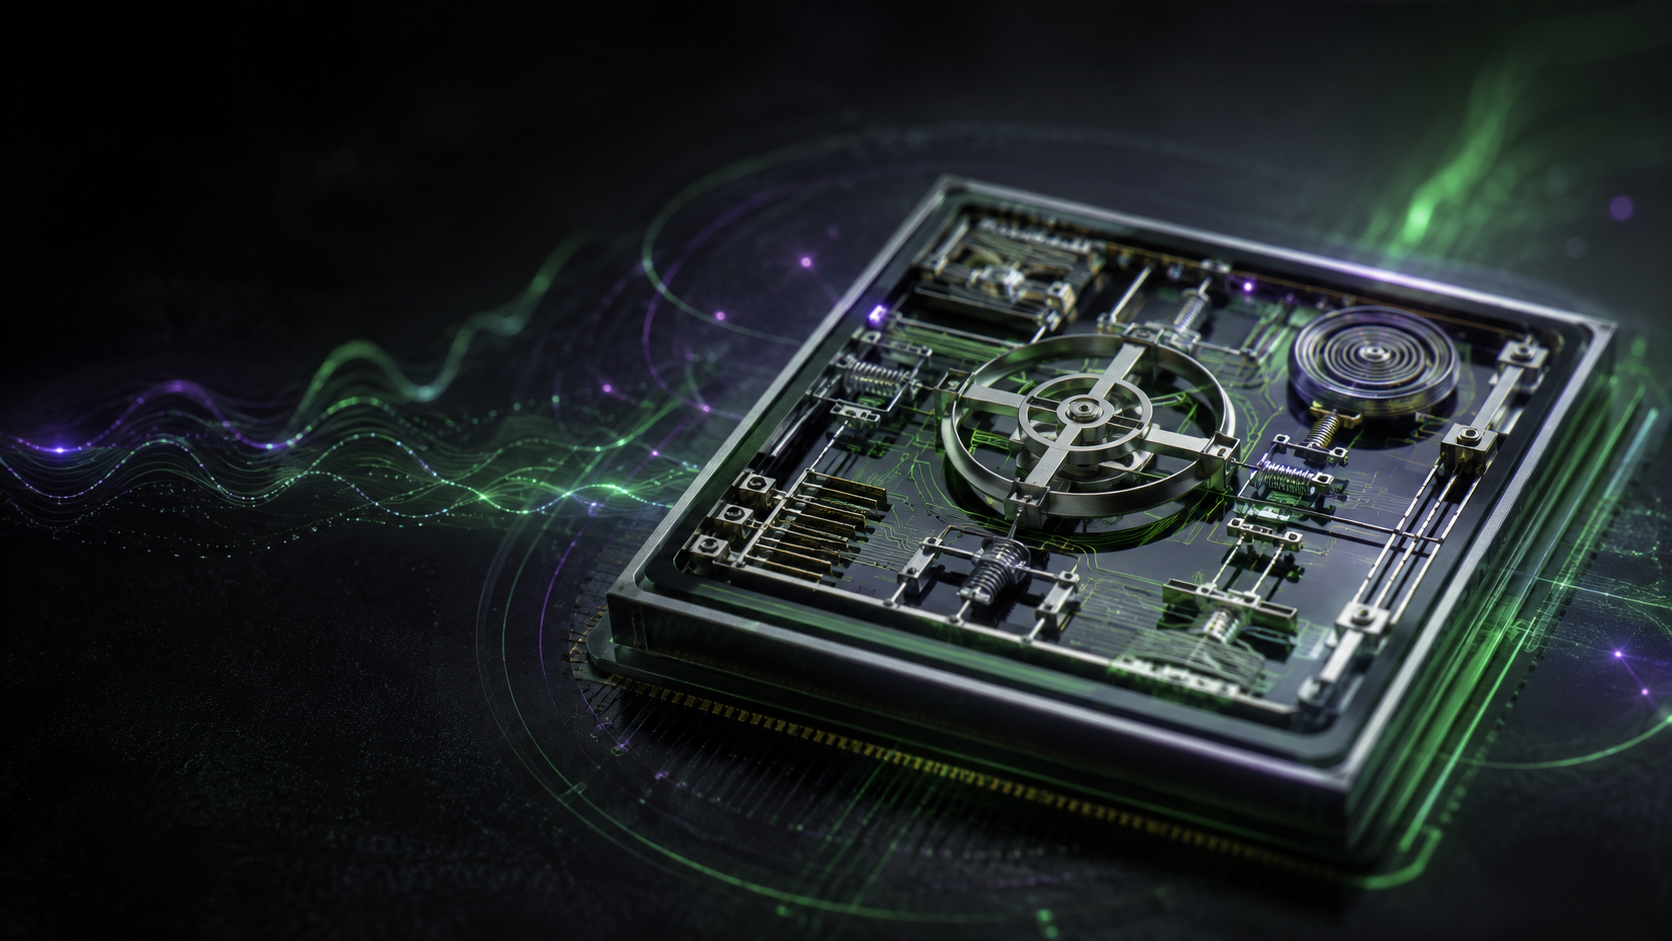
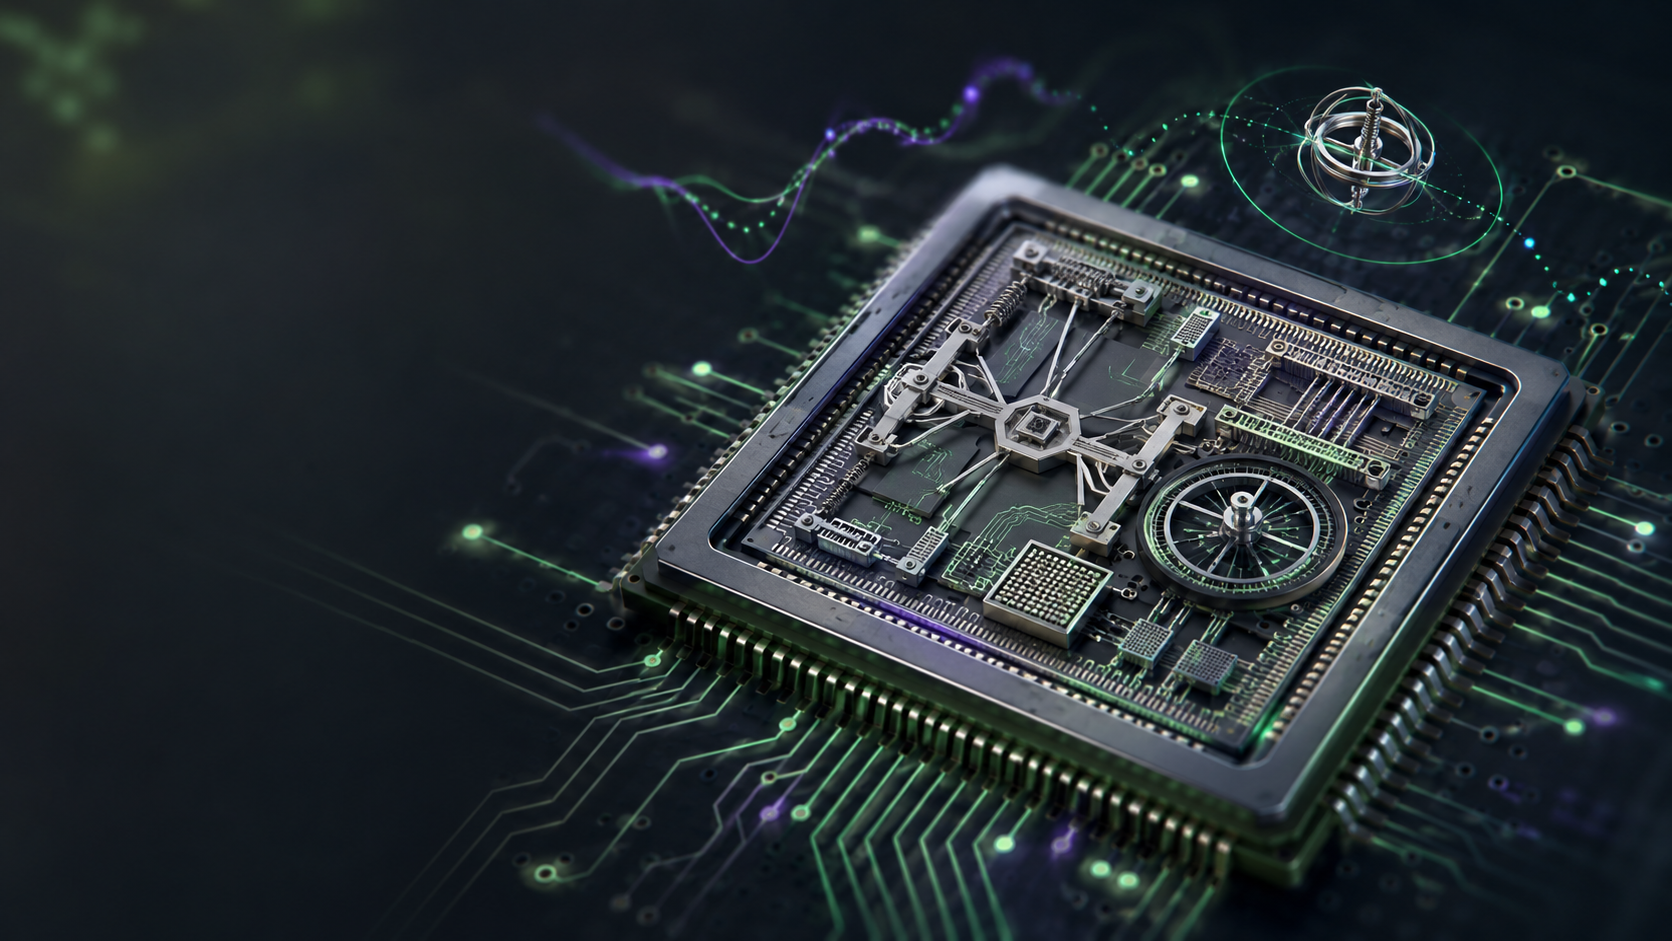
modified:   slides/mems.png modified:   slides/prompt.md

diff --git a/slides/prompt.md b/slides/prompt.md
@@ -12,14 +12,14 @@ Any text, typography, letters, numbers, labels, captions, slogans, logos, icons,
 
 ### MEMS Image Prompt
 
-Create a premium full-bleed 16:9 hero image for a professional semiconductor design company. Show a realistic MEMS sensing and control system as the visual subject: a detailed microelectromechanical silicon chip in a three-quarter macro perspective, with miniature suspended structures, precision springs, cantilevers, resonators, sensor elements, and fine semiconductor traces visible on the die.
+Create a premium full-bleed 16:9 hero image for a professional semiconductor design company. Show a realistic MEMS sensing and control system as the visual subject: a detailed microelectromechanical silicon chip in a three-quarter macro perspective, with miniature suspended structures, precision springs, cantilevers, resonators, sensor elements, and fine semiconductor traces clearly visible on and around the die. Keep the main chip face and surrounding circuit paths unobstructed, sharply focused, and easy to read at a glance.
 
 Surround the chip with subtle visual cues of motion intelligence: controlled waveforms, elegant measurement arcs, calibrated motion paths, gyroscopic structures, and faint sensor-to-controller signal flows. Use a sophisticated black and graphite environment with refined electric-green illumination and small restrained violet accents for signal activity. Make the chip and microscopic structures feel physically realistic, engineered, and manufacturable.
 
 Place the main chip toward the right side and preserve calm negative space on the left for a text overlay. Keep the chip, sensor structures, and major visual details inside the central safe area, away from all edges, so the composition remains effective after desktop, tablet, and mobile cropping. Full-bleed composition, no borders, no frame, no letterboxing, realistic materials, cinematic technical lighting, high-end semiconductor photography, precise and uncluttered, 16:9 aspect ratio.
 
 **Negative prompt:**  
-Any text, letters, numbers, labels, captions, slogans, logos, icons, diagrams, UI panels, infographic elements, code, watermark, border, frame, excessive empty space, distorted chip, unrealistic MEMS structures, cluttered circuit board, excessive neon glow, oversaturated colors, cartoon style, blurry details, low-resolution rendering.
+Any text, letters, numbers, labels, captions, slogans, logos, icons, diagrams, UI panels, infographic elements, code, watermark, border, frame, excessive empty space, obscured chip surface, hidden or unreadable circuit traces, distorted chip, unrealistic MEMS structures, cluttered circuit board, excessive neon glow, oversaturated colors, cartoon style, blurry details, low-resolution rendering.
 
 ### RISC-V Image Prompt
 
